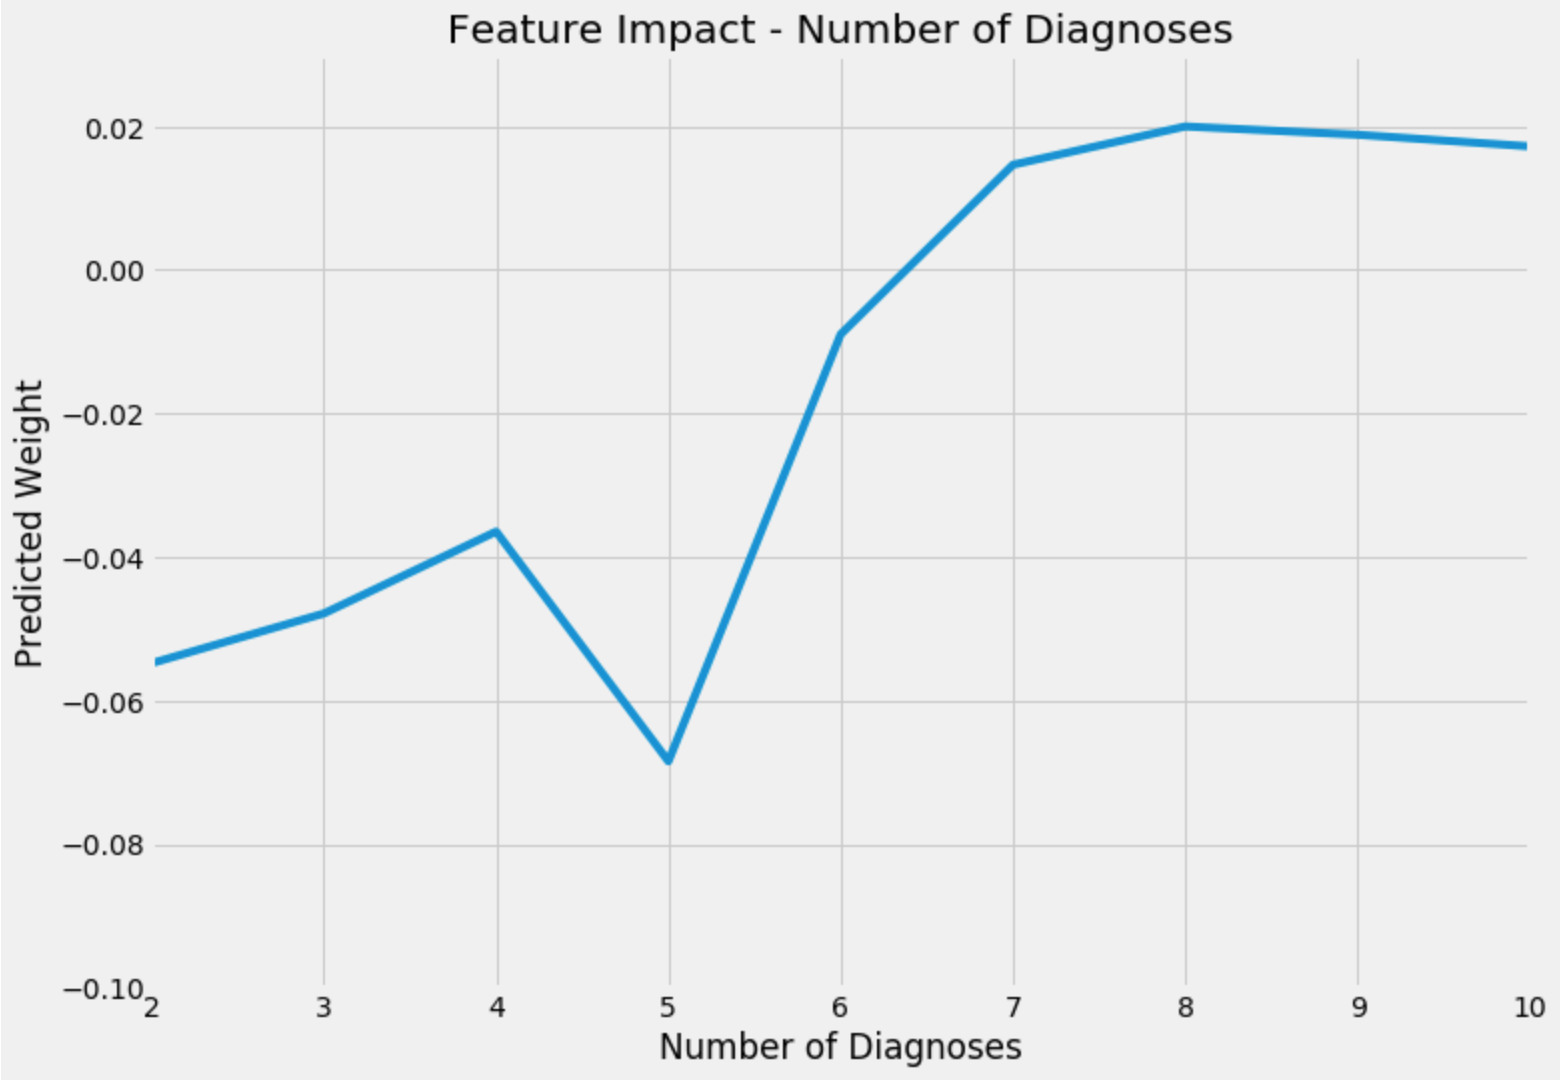
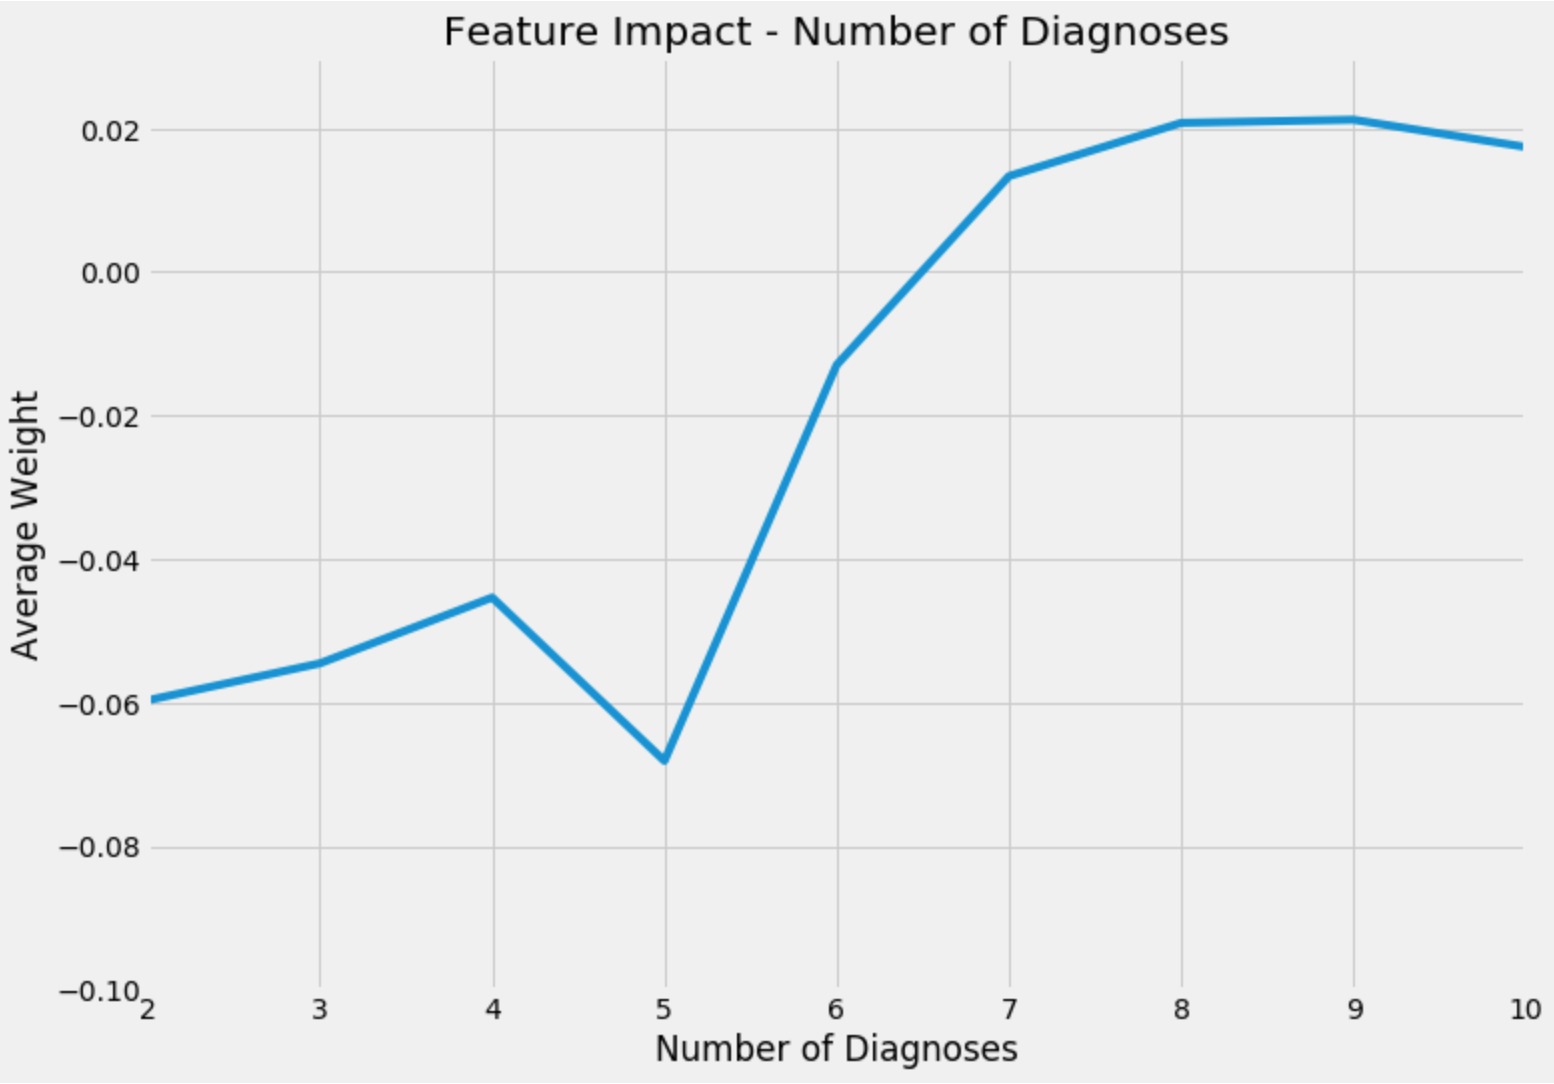
fixed eli post

diff --git a/articles/2019-01/visualizing-decision-trees.html b/articles/2019-01/visualizing-decision-trees.html
@@ -8,16 +8,16 @@
 <head>
   <meta charset="UTF-8">
   <meta http-equiv="X-UA-Compatible" content="IE=edge">
-  <meta name="description" content="Decision trees frequently outperform regression for prediction tasks, however they are not as easy to interpret. In this post, I use the ELI5 package to visu...">
+  <meta name="description" content="Decision tree ensembles frequently outperform regression but are not as easy to interpret. In this post I use the ELI5 package to visualize the learned relat...">
   <meta name="keywords" content="blog and jekyll">
-  <meta name="author" content="Visualizing decision trees using ELI5 | Mark Salama">
+  <meta name="author" content="Intreprating XGBoost Models using ELI5 | Mark Salama">
   <meta name="viewport" content="width=device-width, initial-scale=1.0">
   <meta name="theme-color" content="#f5f5f5">
 
   <!-- Twitter Tags -->
   <meta name="twitter:card" content="summary">
-  <meta name="twitter:title" content="Visualizing decision trees using ELI5 | Mark Salama">
-  <meta name="twitter:description" content="Decision trees frequently outperform regression for prediction tasks, however they are not as easy to interpret. In this post, I use the ELI5 package to visu...">
+  <meta name="twitter:title" content="Intreprating XGBoost Models using ELI5 | Mark Salama">
+  <meta name="twitter:description" content="Decision tree ensembles frequently outperform regression but are not as easy to interpret. In this post I use the ELI5 package to visualize the learned relat...">
   
     <meta property="twitter:image" content="http://www.marksalama.com/img/leonids-logo.png">
   
@@ -25,12 +25,12 @@
   <!-- Open Graph Tags -->
   <meta property="og:type" content="blog">
   <meta property="og:url" content="http://www.marksalama.com/articles/2019-01/visualizing-decision-trees">
-  <meta property="og:title" content="Visualizing decision trees using ELI5 | Mark Salama">
-  <meta property="og:description" content="Decision trees frequently outperform regression for prediction tasks, however they are not as easy to interpret. In this post, I use the ELI5 package to visu...">
+  <meta property="og:title" content="Intreprating XGBoost Models using ELI5 | Mark Salama">
+  <meta property="og:description" content="Decision tree ensembles frequently outperform regression but are not as easy to interpret. In this post I use the ELI5 package to visualize the learned relat...">
   
     <meta property="og:image" content="http://www.marksalama.com/img/leonids-logo.png">
   
-  <title>Visualizing decision trees using ELI5 | Mark Salama</title>
+  <title>Intreprating XGBoost Models using ELI5 | Mark Salama</title>
 
   <!-- CSS files -->
   <link rel="stylesheet" href="http://www.marksalama.com/css/font-awesome.min.css">
@@ -138,7 +138,7 @@
 
 <div id="post">
   <header class="post-header">
-    <h1 title="Visualizing decision trees using ELI5">Visualizing decision trees using ELI5</h1>
+    <h1 title="Intreprating XGBoost Models using ELI5">Intreprating XGBoost Models using ELI5</h1>
     <span class="post-meta">
       <span class="post-date">
         9 JAN 2019
@@ -156,20 +156,22 @@
   </header>
 
   <article class="post-content">
-    <p>Decision trees, specifically <a href="https://en.wikipedia.org/wiki/Gradient_boosting">gradient boosted methods</a>, are a powerful and easy-to-use machine learning technique for making predictions. They work by leveraging a large number of simple decision trees. For example, if we are trying to predict how students will score on an upcoming test, one tree might look like this.</p>
+    <p>Decision tree ensembles, specifically <a href="https://en.wikipedia.org/wiki/Gradient_boosting">gradient boosted methods</a>, are a powerful and easy-to-use machine learning technique for making predictions. They work by leveraging a large number of simple decision trees. For example if we are trying to predict how students will score on an upcoming test, one decision tree might look like this.</p>
 
 <p style="text-align: center;"><img src="/img/sample_decision_tree.png" alt="alt text" /></p>
 
-<p>Each tree individually doesn’t tell us much, but if we average the responses of hundreds of trees, the predictions become robust. I liken it to guessing how many candies are in a jar. One guess is random, but the average of 1,000 guesses is usually a good approximation.</p>
+<p>A single tree captures some information but is insufficient to make an accurate prediction. Only when we aggregate the responses of hundreds of trees, do the predictions become robust. I liken it to guessing how many candies are in a jar. One person’s guess might be far off, but the average of 1,000 guesses is usually a good approximation.</p>
 
-<p>An issue with decision tree approaches is that it’s not immediately clear what relationships the model is learning. One can easily investigate one tree (XGBoost has a plot_tree method) but one tree doesn’t tell us much. Which brings us to the awesome <a href="https://eli5.readthedocs.io/en/latest/index.html">ELI5 package</a>. ELI5, an acronym for explain like I’m five, offers ways to visualize and understand how your model is making predictions. Specifically, for a given observation, it can tell you the impact of each feature on the prediction. It works by looking at how the prediction changes across all of the trees based on a specific feature. Let’s consider one student who studied for 5 hours. ELI5 might tell us that across all of the trees, having a value of 5 for hours studied has a +10 impact on the predicted score for the upcoming test. When we extend this to a large number of observations, we can understand the relationships the model is learning.</p>
+<p>An issue with decision tree ensembles is that it’s not clear what relationships the model has learned. One visualize one tree (XGBoost has a plot_tree method) but one tree doesn’t tell us much. Which brings us to the awesome <a href="https://eli5.readthedocs.io/en/latest/index.html">ELI5 package</a>. ELI5, an acronym for explain like I’m five, offers ways to visualize and understand how your model is making predictions. Specifically, for a given observation, it can tell you the impact of each feature on the prediction. It works by looking at how the prediction changes across all of the trees based on a specific feature. Let’s consider one student who studied for 5 hours. ELI5 might tell us that across all of the trees, having a value of 5 for hours studied has a +10 impact on the prediction for the upcoming test. When we extend this to a large number of observations, we can understand the relationships the model is learning.</p>
 
-<p>Using a dataset on hospital readmission, I want to walk through an example. The dataset is described in detail <a href="https://www.hindawi.com/journals/bmri/2014/781670/">here</a> but essentially there are features pertaining to a hospital visit such as the number of diagnoses made, length of visit, and how many procedures were performed, and the target variable is if they were readmitted to the hospital. I trained an XGBoost model, the code is on my <a href="https://github.com/mark-salama/eli_hospital_readmissions">GitHub</a>, and built this graphic to visualize the relationship the model learned between the number of diagnoses entered into the system during the patient’s visit and the probability of being readmitted.
+<p>Using a dataset on hospital readmission, I want to walk through an example. The dataset is described in detail <a href="https://www.hindawi.com/journals/bmri/2014/781670/">here</a> but essentially there are features pertaining to a hospital visit such as the number of diagnoses made, length of visit, and how many procedures were performed, and the target variable is if they were readmitted to the hospital. I trained an XGBoost model and ran ELI5’s explain_prediction method on 2,000 observations to build a dataset of feature values and their impact on predictions. After filtering for a specific feature and averaging weights across feature values, we can get an idea of the relationship that the model has learned. A positive weight is related to a higher predicted probability of readmission. This graphic shows the average weight for observations with between 2 and 10 diagnoses entered into the system during the patient’s visit.
 <br />
 <br /></p>
 <p style="text-align: center;"><img src="/img/diagnoses.png" alt="alt text" /></p>
 <p><br />
-Note that a positive weight is related to a higher predicted probability of readmission. We can see that up until 5 diagnoses, this feature has a relatively consistent negative weight, so it contributes to a lower chance of being readmitted. But if an observation has more than 6 diagnoses, this feature has a positive weight, or a higher chance of readmission. And just as the difference between 3, 4 and 5 diagnoses on the low end is muted, there is little difference between 7, 8 or 9 diagnoses. Intuitively this makes sense. Decision trees are great for learning non-linear relationships, and with this method, we can visualize what the model learned!</p>
+ Up until 5 diagnoses, the weight is relatively consistent and negative so it contributes to a lower chance of being readmitted. But if an observation has more than 6 diagnoses, this feature has a positive weight. And just as the difference between 3, 4 and 5 diagnoses on the low end is muted, there is little difference between 7, 8 or 9 diagnoses. Intuitively this makes sense. Decision trees are great for learning non-linear relationships, and with this method, we can visualize what the model learned!</p>
+
+<p>The code is on my <a href="https://github.com/mark-salama/eli_hospital_readmissions">GitHub</a>.</p>
 
   </article>
 </div>

diff --git a/index.html b/index.html
@@ -151,7 +151,7 @@
       
     </p>
     <h4>
-      <a href="http://www.marksalama.com/articles/2019-01/visualizing-decision-trees" class="post-title" title="Visualizing decision trees using ELI5">Visualizing decision trees using ELI5</a>
+      <a href="http://www.marksalama.com/articles/2019-01/visualizing-decision-trees" class="post-title" title="Intreprating XGBoost Models using ELI5">Intreprating XGBoost Models using ELI5</a>
       
     </h4>
 
@@ -162,7 +162,7 @@
     
     <div class="post-description">
       <p>
-        Decision trees frequently outperform regression for prediction tasks, however they are not as easy to interpret. In this post, I use the ELI5 package to visualize the learned relationship between a feature and the target variable.
+        Decision tree ensembles frequently outperform regression but are not as easy to interpret. In this post I use the ELI5 package to visualize the learned relationship between a feature and the target variable.
       </p>
     </div>
     

diff --git a/categories/index.html b/categories/index.html
@@ -143,7 +143,7 @@
     <h5 class="tag-group-title" id="visualization">visualization</h5>
     
     <article class="tag-item">
-      <a class="tag-item-title" href="http://www.marksalama.com/articles/2019-01/visualizing-decision-trees">Visualizing decision trees using ELI5</a>
+      <a class="tag-item-title" href="http://www.marksalama.com/articles/2019-01/visualizing-decision-trees">Intreprating XGBoost Models using ELI5</a>
     </article>
     
     <article class="tag-item">
@@ -247,7 +247,7 @@
     <h5 class="tag-group-title" id="prediction">prediction</h5>
     
     <article class="tag-item">
-      <a class="tag-item-title" href="http://www.marksalama.com/articles/2019-01/visualizing-decision-trees">Visualizing decision trees using ELI5</a>
+      <a class="tag-item-title" href="http://www.marksalama.com/articles/2019-01/visualizing-decision-trees">Intreprating XGBoost Models using ELI5</a>
     </article>
     
   </div>

diff --git a/archive/index.html b/archive/index.html
@@ -146,7 +146,7 @@
 
       <ul>
       
-        <li><div style="width:60px;float:left;">Jan 9</div> <a href="http://www.marksalama.com/articles/2019-01/visualizing-decision-trees">Visualizing decision trees using ELI5</a></li>
+        <li><div style="width:60px;float:left;">Jan 9</div> <a href="http://www.marksalama.com/articles/2019-01/visualizing-decision-trees">Intreprating XGBoost Models using ELI5</a></li>
       
         <li><div style="width:60px;float:left;">Jan 3</div> <a href="http://www.marksalama.com/articles/2019-01/visualizing-brooklyn-home-price-appreciation">Visualizing Brooklyn Home Price Appreciation</a></li>
       
